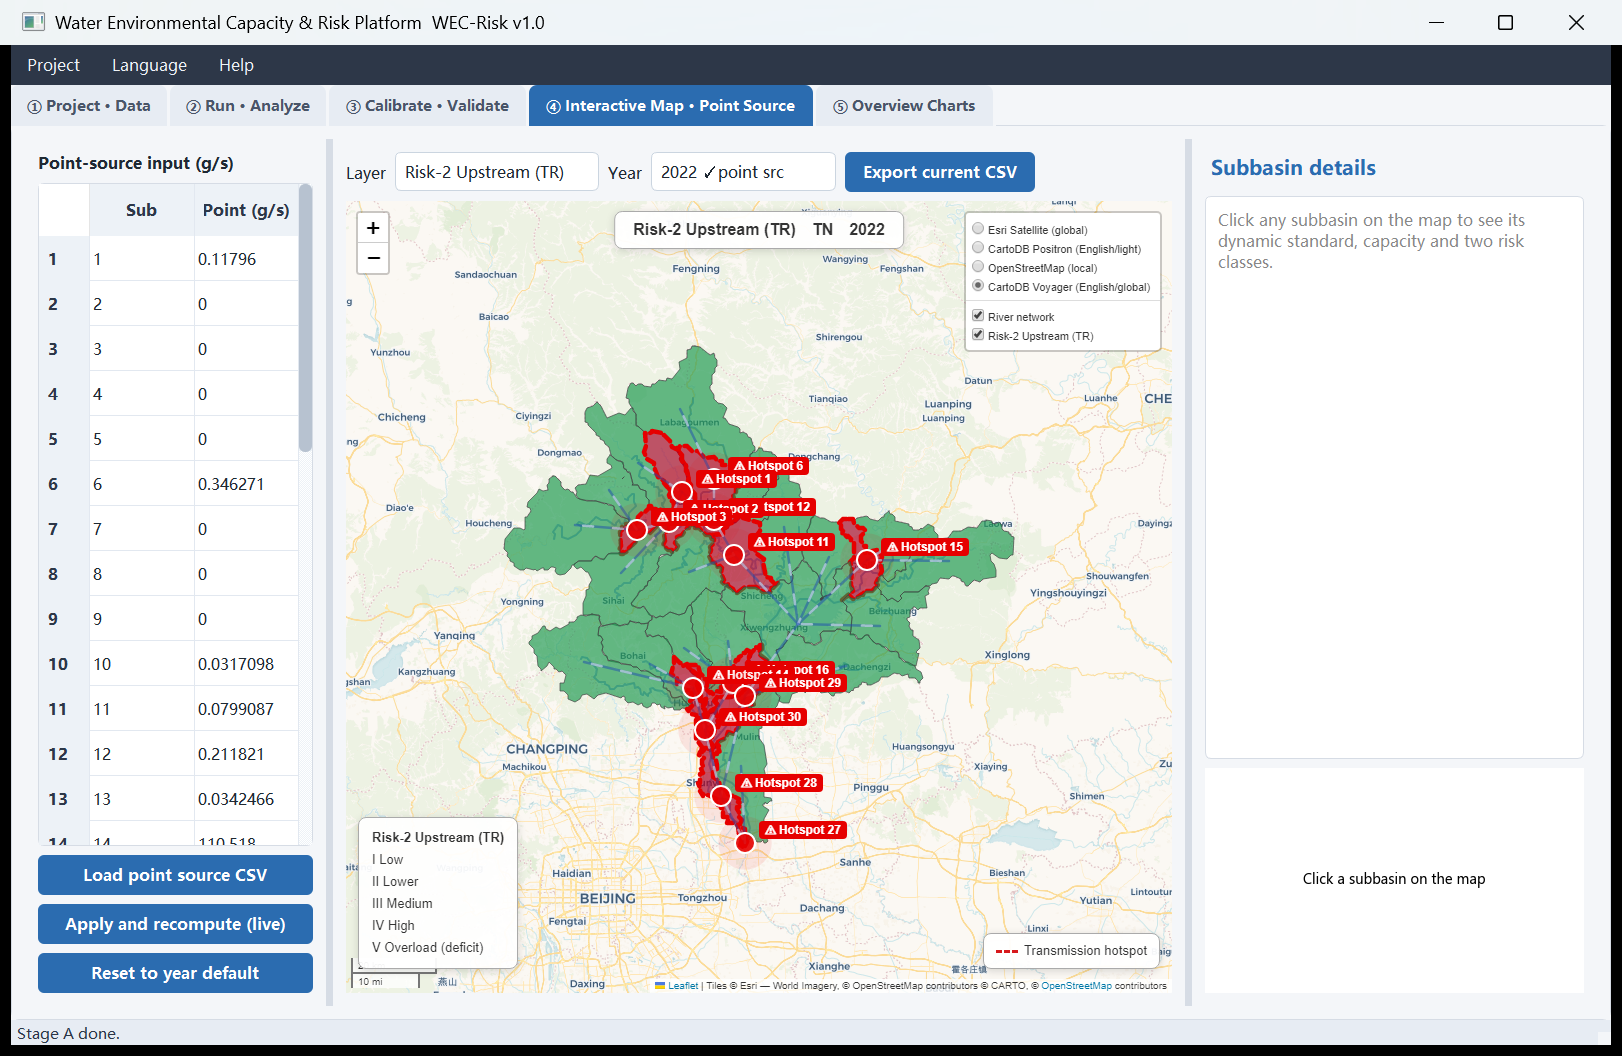
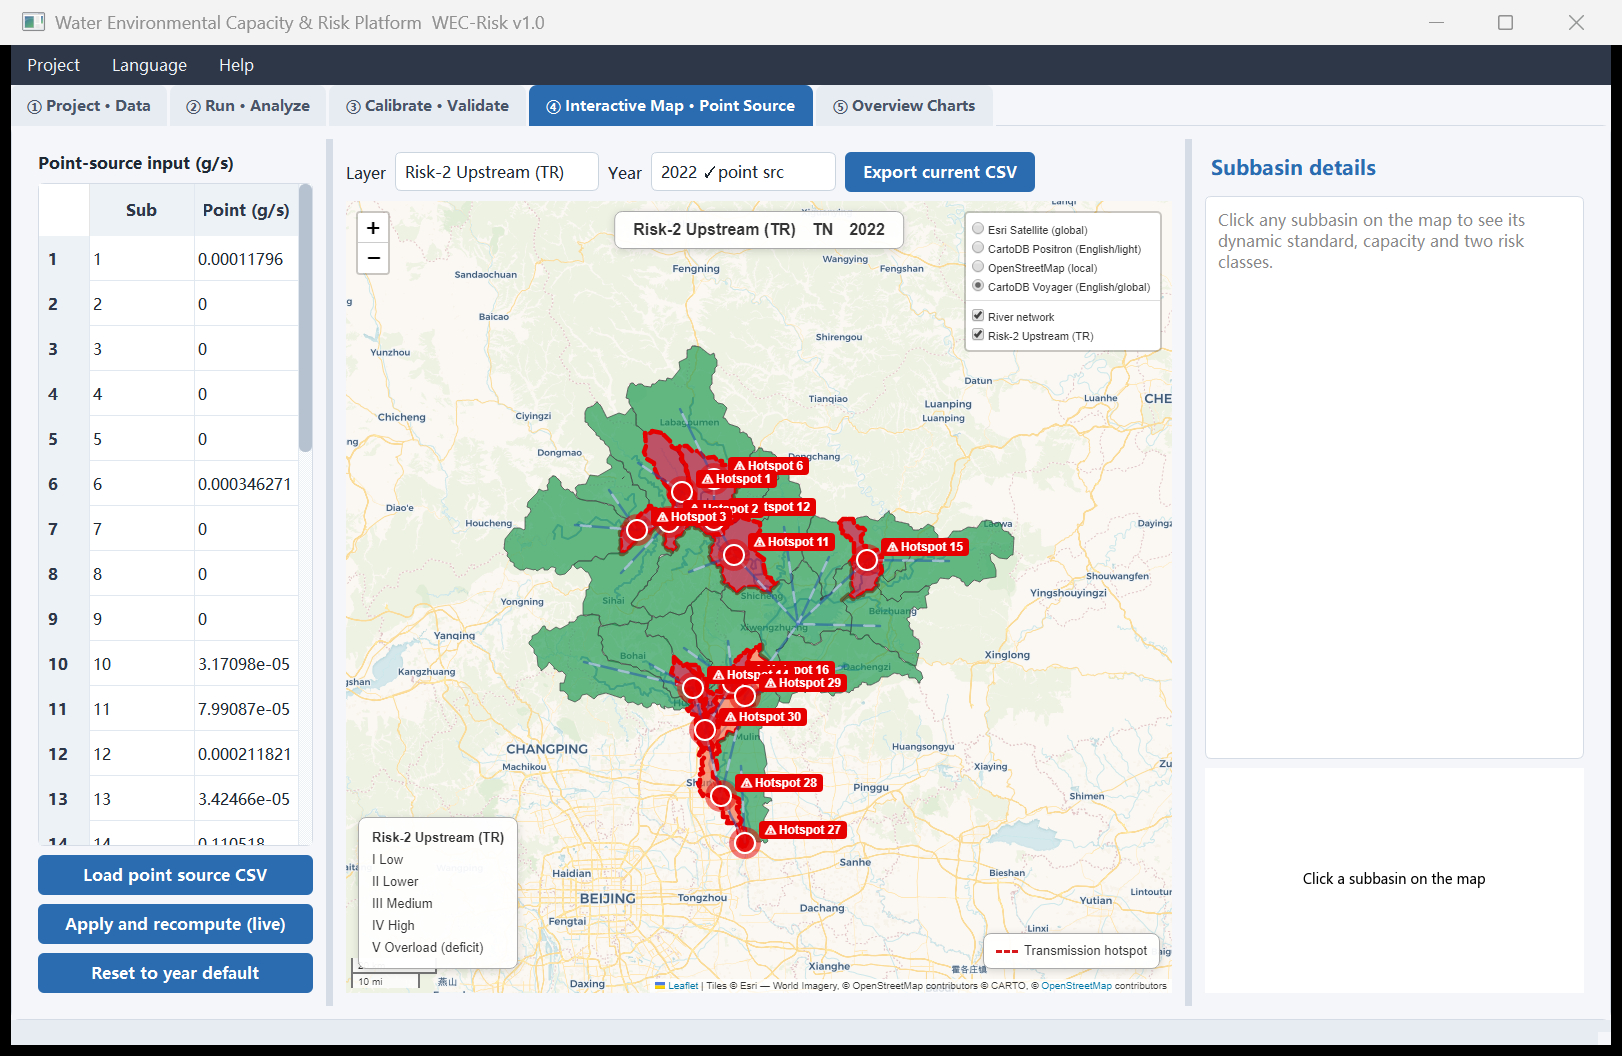
fix: correct point-source unit (values were 1000x too large)

diff --git a/README_中文.md b/README_中文.md
@@ -66,6 +66,7 @@ python main.py --cli --project examples/miyun_project.json --year 2022 --reconci
 **点源文件命名与格式**（关键）：
 - 文件名：`PL_Point_<污染物代码>_<年份>.csv`，例如 `PL_Point_TN_2022.csv`。
 - 列：`Subbasin`（子流域编号）、`PL_point_TN_g_s`（点源通量，单位 **g/s**）。
+  - ⚠ **单位务必是 g/s**。若你的原始数据是年负荷，请换算：`g/s = 千克每年 ÷ (365 × 86400) × 1e3`（若是「克每年」则 `÷ (365 × 86400)`）。**切勿把 kg/yr 误当作 t/yr**（会导致数值偏大 1000 倍）。
 - 程序按文件名中的年份自动归类。**只有存在该年专属点源文件的年份**，才会计算并显示「实际环境容量」与「风险」（见第六节）。
 - 也可在「④ 交互地图与点源」左侧表格直接手填（g/s）后点「应用并重算」。
 

diff --git a/README_English.md b/README_English.md
@@ -69,6 +69,8 @@ It reads results from a SWAT2012 project you have **already built and run**. In 
 **Point-source file naming & format (important):**
 - File name: `PL_Point_<pollutant>_<year>.csv`, e.g. `PL_Point_TN_2022.csv`.
 - Columns: `Subbasin` (subbasin id), `PL_point_TN_g_s` (point-source flux in **g/s**).
+  - ⚠ The value **must be a flux in g/s**. If your source data is an annual load, convert with
+    `g/s = kg_per_year ÷ (365 × 86400) × 1e3` (or `÷ (365 × 86400)` for g/year). **Do not mistake kg/yr for t/yr** (that inflates every value 1000×).
 - The year is taken from the file name. **Only years that have their own point-source file** get an
   "actual capacity" and "risk" result (see §6).
 - You may also type values (g/s) directly in the table on the left of tab ④ and click "Apply and recompute".
